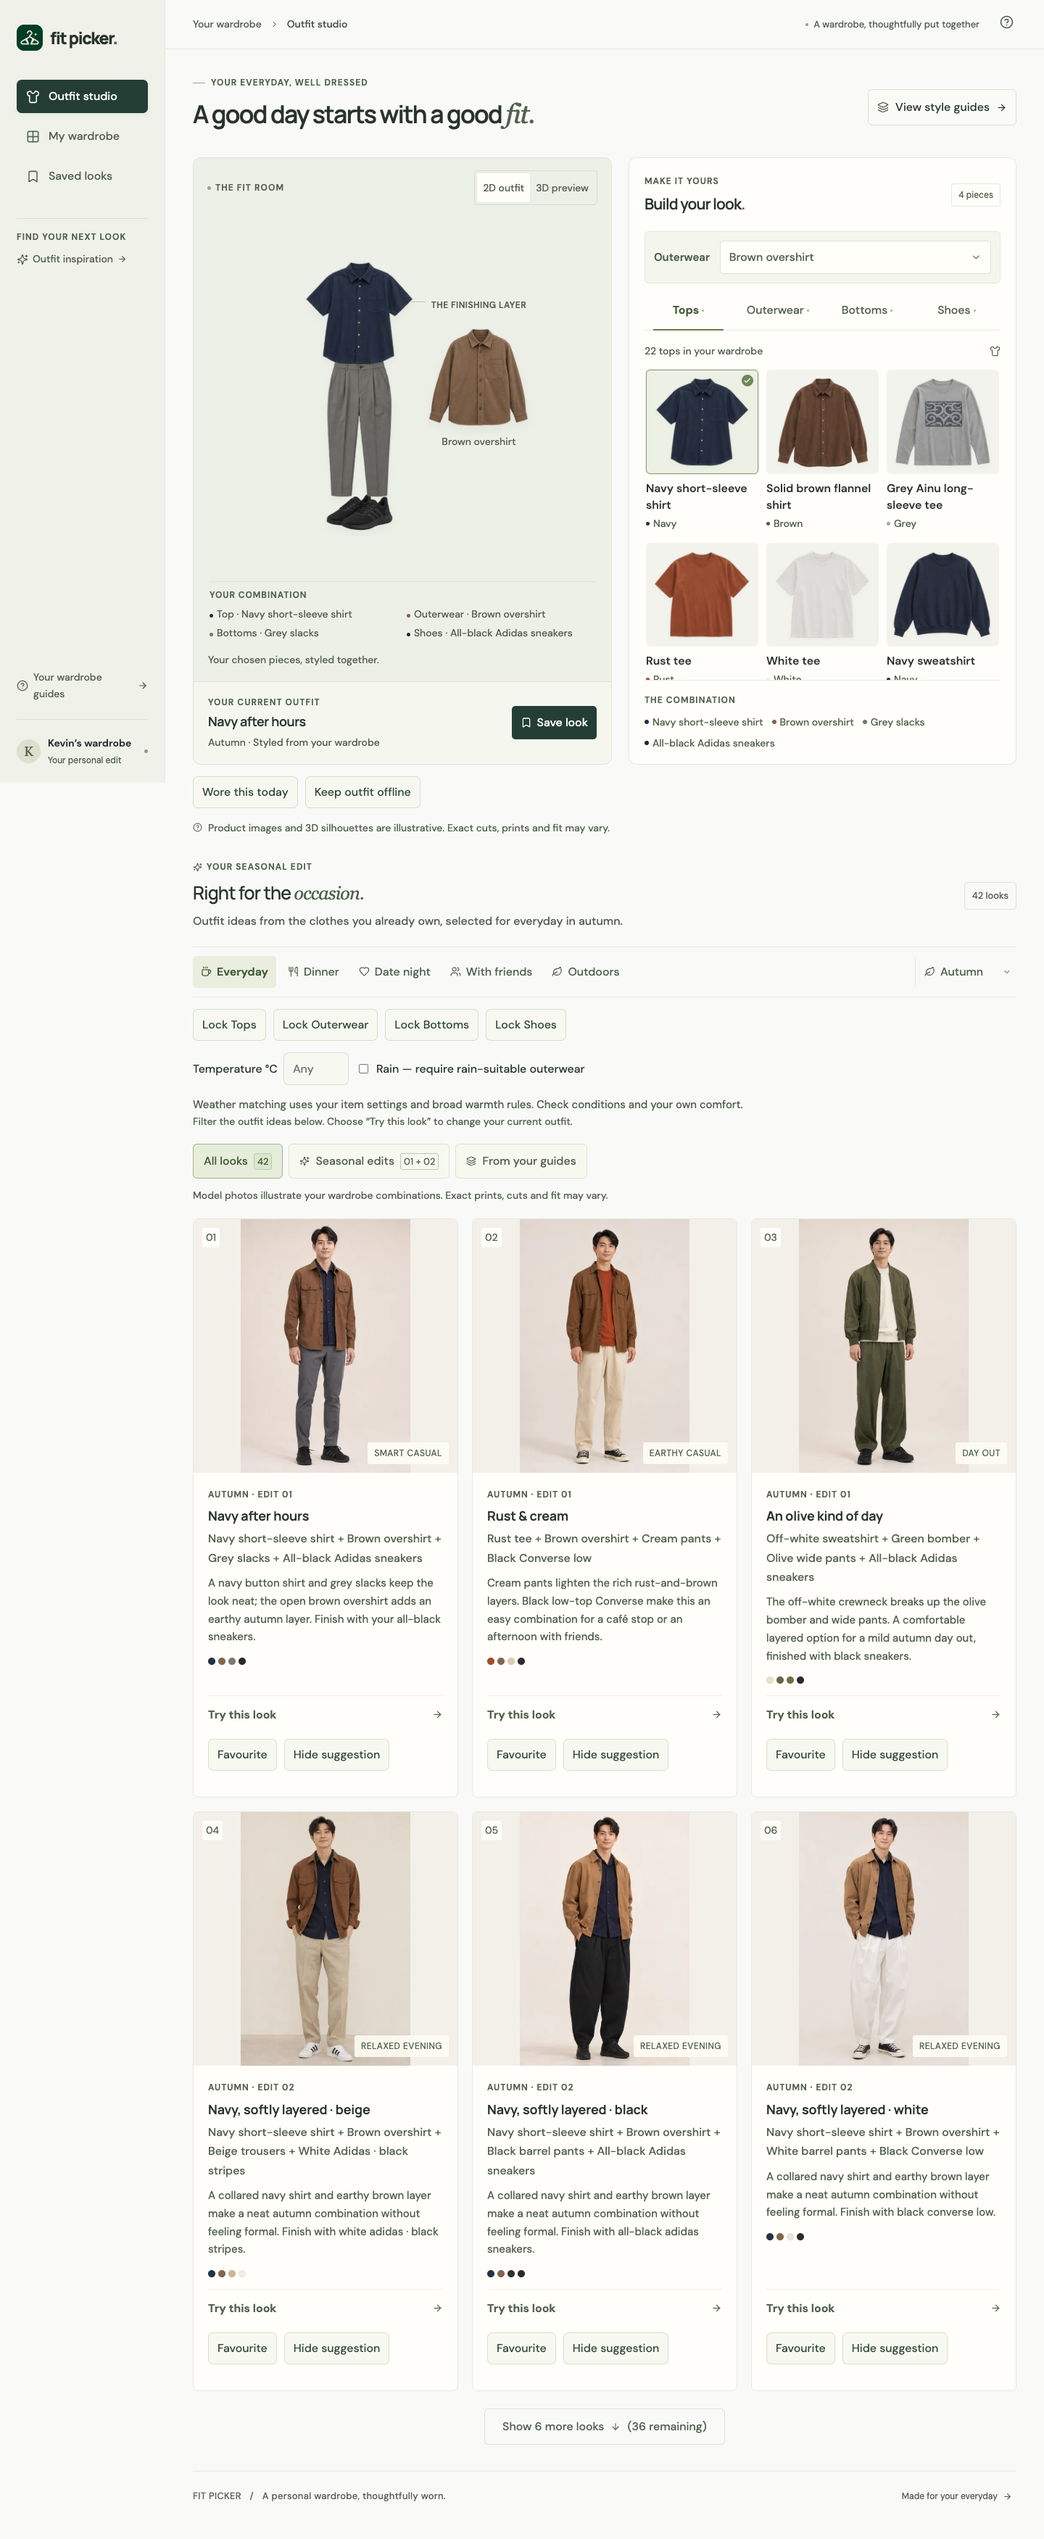
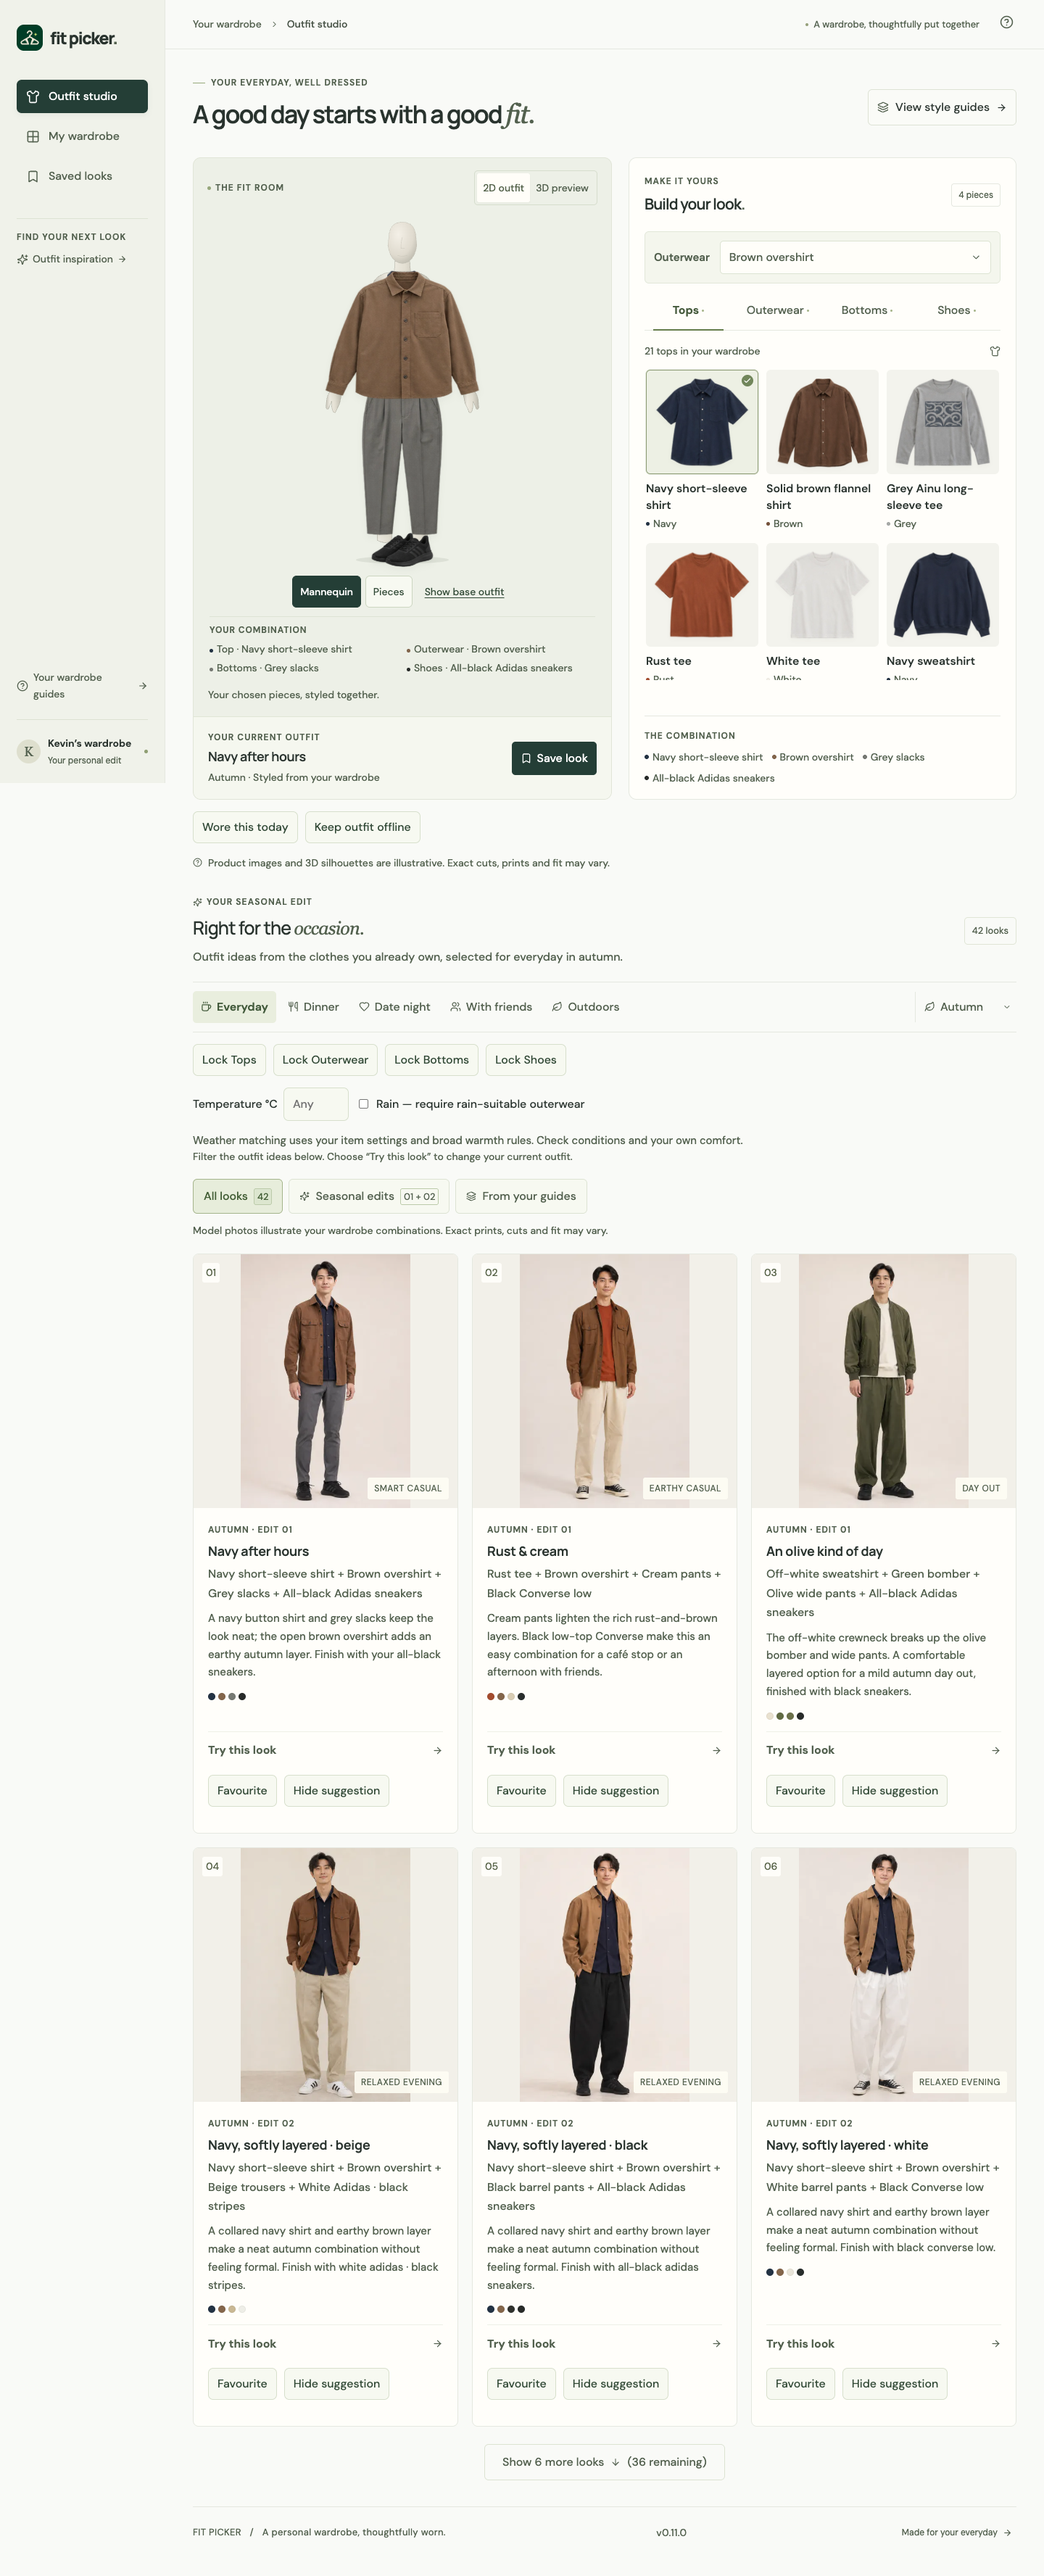
Add a lightweight 2D mannequin for selected outfits

diff --git a/src/components/OutfitCanvas.tsx b/src/components/OutfitCanvas.tsx
@@ -1,8 +1,9 @@
-import { useEffect, useRef } from 'react'
+import { useEffect, useRef, useState } from 'react'
 import type { Category, Garment, Selection } from '../types'
 import './outfit-canvas.css'
 import { garmentPhoto } from '../lib/garment-photos'
 import { useImageFailure } from '../lib/use-image-failure'
+import Mannequin2D from './Mannequin2D'
 
 interface Props {
   selection: Selection
@@ -35,9 +36,8 @@ function ProductPhoto({ garment, className = '', lazy = false, side = 'front' }:
       />
 }
 
-/** A composed clothing-only outfit, using the same photographic product assets
- * as the wardrobe. The optional outer layer sits beside the base outfit so a
- * closed jacket never conceals the selected shirt. */
+/** The studio wears photographic pieces on a light vector display form.
+ * Compact recommendation fallbacks retain the clothing-only composition. */
 export default function OutfitCanvas({ selection, garments, compact = false, side = 'front' }: Props) {
   const arrangement = useRef<HTMLDivElement>(null)
   const assembly = useRef<HTMLDivElement>(null)
@@ -46,6 +46,14 @@ export default function OutfitCanvas({ selection, garments, compact = false, sid
   const layer = get('layers')
   const bottoms = get('bottoms')
   const shoes = get('shoes')
+  const [presentation, setPresentation] = useState<'mannequin' | 'pieces'>('mannequin')
+  const [hiddenLayer, setHiddenLayer] = useState<string>()
+  useEffect(() => { setHiddenLayer(undefined) }, [layer?.id])
+  const mannequin = !compact && presentation === 'mannequin'
+  // Only the selected top has a supplied back photograph. Show it uncovered.
+  const wornLayer = mannequin && side === 'front' && layer?.id !== hiddenLayer ? layer : undefined
+  const visibleTop = wornLayer || top
+  const longSleeves = Boolean(visibleTop && (visibleTop.style !== 'tee' && !['navy-shirt','teal-shirt','brown-shirt','white-shirt'].includes(visibleTop.id)))
   const selected = (['tops', 'layers', 'bottoms', 'shoes'] as Category[])
     .map(category => ({ category, garment: get(category) }))
     .filter((piece): piece is { category: Category; garment: Garment } => Boolean(piece.garment))
@@ -55,8 +63,8 @@ export default function OutfitCanvas({ selection, garments, compact = false, sid
     const content = assembly.current
     if (!container || !content) return
     const resize = () => {
-      const width = layer ? 344 : 210
-      const height = bottoms?.style === 'shorts' ? 365 : 390
+      const width = mannequin ? 300 : layer ? 344 : 210
+      const height = mannequin ? 560 : bottoms?.style === 'shorts' ? 365 : 390
       const scale = Math.min(1, Math.max(.15, (container.clientWidth - 12) / width), Math.max(.15, (container.clientHeight - 12) / height))
       content.style.setProperty('--outfit-scale', String(scale))
       content.style.transform = `translate(-50%, -50%) scale(${scale})`
@@ -65,25 +73,33 @@ export default function OutfitCanvas({ selection, garments, compact = false, sid
     observer.observe(container)
     resize()
     return () => observer.disconnect()
-  }, [Boolean(layer), bottoms?.style, compact, selected.length])
+  }, [Boolean(layer), bottoms?.style, compact, selected.length, mannequin])
 
   if (!selected.length) return <div className="outfit-canvas outfit-canvas--empty"><p>Your outfit starts with one piece.</p><span>Choose a top, bottoms and shoes to bring it together.</span></div>
 
-  return <figure className={`outfit-canvas${compact ? ' outfit-canvas--compact' : ''}${layer ? ' outfit-canvas--layered' : ''}${bottoms?.style === 'shorts' ? ' outfit-canvas--shorts' : ''}`} aria-label="Your selected outfit in 2D">
+  return <figure className={`outfit-canvas${compact ? ' outfit-canvas--compact' : ''}${layer ? ' outfit-canvas--layered' : ''}${bottoms?.style === 'shorts' ? ' outfit-canvas--shorts' : ''}${mannequin ? ' outfit-canvas--mannequin' : ''}${wornLayer ? ' outfit-canvas--wearing-layer' : ''}`} data-top-style={top?.style} data-top-id={top?.id} aria-label={mannequin ? 'Your selected outfit on a 2D mannequin' : 'Your selected outfit in 2D'}>
     <div className="outfit-canvas__arrangement" ref={arrangement}>
       <div className="outfit-canvas__assembly" ref={assembly}>
         <div className="outfit-canvas__base">
+          {mannequin && <Mannequin2D back={side === 'back'} longSleeves={longSleeves} coat={wornLayer?.style === 'coat'} bareFeet={!shoes} dressed={Boolean(visibleTop)}/>}
           {shoes && <ProductPhoto key={shoes.id} garment={shoes} lazy={compact} className="outfit-canvas__shoes"/>}
           {bottoms && <ProductPhoto key={bottoms.id} garment={bottoms} lazy={compact} className="outfit-canvas__bottoms"/>}
           {top && <ProductPhoto key={top.id} garment={top} side={side} lazy={compact} className="outfit-canvas__top"/>}
+          {wornLayer && <div className={`outfit-canvas__worn-layer outfit-canvas__worn-layer--${wornLayer.style}`}><ProductPhoto garment={wornLayer}/></div>}
         </div>
-        {layer && <div className="outfit-canvas__layer">
+        {layer && !mannequin && <div className="outfit-canvas__layer">
           <span className="outfit-canvas__layer-label">The finishing layer</span>
           <ProductPhoto key={layer.id} garment={layer} lazy={compact}/>
           <span className="outfit-canvas__layer-name">{layer.name}</span>
         </div>}
       </div>
     </div>
+    {!compact && <div className="outfit-canvas__view-tools" role="group" aria-label="2D presentation">
+      <button aria-pressed={mannequin} onClick={() => setPresentation('mannequin')}>Mannequin</button>
+      <button aria-pressed={!mannequin} onClick={() => setPresentation('pieces')}>Pieces</button>
+      {mannequin && layer && side === 'front' && <button className="outfit-canvas__layer-switch" onClick={() => setHiddenLayer(wornLayer ? layer.id : undefined)}>{wornLayer ? 'Show base outfit' : 'Show outerwear'}</button>}
+      {mannequin && layer && side === 'back' && <span>Top’s back · outerwear hidden</span>}
+    </div>}
     <figcaption className="outfit-canvas__caption">
       <span className="outfit-canvas__caption-title">Your combination</span>
       <ul aria-label="Selected clothes">

diff --git a/src/components/Mannequin2D.tsx b/src/components/Mannequin2D.tsx
@@ -1,0 +1,37 @@
+import { useId } from 'react'
+
+/** A small vector display form. Clothing stays photographic; no WebGL is used. */
+export default function Mannequin2D({ back, longSleeves, coat, bareFeet, dressed }: { back: boolean; longSleeves: boolean; coat: boolean; bareFeet: boolean; dressed: boolean }) {
+  const id = useId().replace(/:/g, '')
+  const surface = `${id}-surface`, head = `${id}-head`
+  return <svg className="outfit-mannequin" viewBox="0 0 300 560" aria-hidden="true" focusable="false">
+    <defs>
+      <linearGradient id={surface} x1="0" x2="1"><stop stopColor="#c6c3b7"/><stop offset=".25" stopColor="#edeae0"/><stop offset=".58" stopColor="#e3dfd2"/><stop offset="1" stopColor="#bcb9ad"/></linearGradient>
+      <radialGradient id={head} cx=".36" cy=".3" r=".8"><stop stopColor="#f4f0e7"/><stop offset=".65" stopColor="#dfdace"/><stop offset="1" stopColor="#b9b7ab"/></radialGradient>
+      <clipPath id={`${id}-clothed`}><rect x="0" y="125" width="300" height="435"/></clipPath>
+    </defs>
+    <ellipse cx="150" cy="551" rx="74" ry="6" fill="#34422a" opacity=".09"/>
+    <g fill={`url(#${surface})`} stroke="#aaa99d" strokeWidth=".6">
+      <path d="M139 66 Q150 73 161 66 L163 91 178 98 122 98 137 91Z"/>
+      <path clipPath={dressed ? `url(#${id}-clothed)` : undefined} d="M121 94 Q150 87 179 94 Q198 101 199 119 L185 187 Q181 220 190 255 Q199 280 190 308 L162 322 150 303 138 322 110 308 Q101 280 110 255 Q119 220 115 187 L101 119 Q102 101 121 94Z"/>
+      <path d="M111 276 Q133 266 148 288 L142 382 136 446 133 518 Q126 528 110 520 L108 446 104 390 Q95 313 111 276Z"/>
+      <path d="M189 276 Q167 266 152 288 L158 382 164 446 167 518 Q174 528 190 520 L192 446 196 390 Q205 313 189 276Z"/>
+      {bareFeet && <><path d="M110 513 Q121 509 133 516 L135 535 Q130 547 102 545 Q95 538 101 529Z"/>
+      <path d="M190 513 Q179 509 167 516 L165 535 Q170 547 198 545 Q205 538 199 529Z"/></>}
+      {longSleeves ? <g clipPath={dressed ? `url(#${id}-clothed)` : undefined} transform={coat ? 'translate(0 24)' : undefined}>
+        <path d="M108 119 Q96 111 85 132 L66 183 38 267 Q32 282 40 290 Q48 296 54 280 L86 198 119 141Z"/>
+        <path d="M192 119 Q204 111 215 132 L234 183 262 267 Q268 282 260 290 Q252 296 246 280 L214 198 181 141Z"/>
+        <path d="M39 278 Q31 284 29 295 L28 308 Q31 315 34 305 L37 298 Q37 318 43 316 L50 301 53 286Z"/>
+        <path d="M261 278 Q269 284 271 295 L272 308 Q269 315 266 305 L263 298 Q263 318 257 316 L250 301 247 286Z"/>
+      </g> : <g clipPath={dressed ? `url(#${id}-clothed)` : undefined}>
+        <path d="M108 119 Q96 111 83 135 L62 175 Q55 191 52 217 L47 266 Q49 276 60 272 L71 222 83 194 119 141Z"/>
+        <path d="M192 119 Q204 111 217 135 L238 175 Q245 191 248 217 L253 266 Q251 276 240 272 L229 222 217 194 181 141Z"/>
+        <path d="M48 261 Q40 270 39 284 L40 298 Q44 302 45 289 L48 282 Q47 307 53 304 L62 286 61 265Z"/>
+        <path d="M252 261 Q260 270 261 284 L260 298 Q256 302 255 289 L252 282 Q253 307 247 304 L238 286 239 265Z"/>
+      </g>}
+    </g>
+    <path d="M129 30 Q132 12 150 12 Q168 12 171 30 L173 49 Q171 67 160 75 Q150 81 140 75 Q129 67 127 49Z" fill={`url(#${head})`} stroke="#c4c1b6" strokeWidth=".6"/>
+    {!back && <path d="M150 36 Q147 47 148 54 L154 54 M142 65 Q150 68 158 65" fill="none" stroke="#c1bdb1" strokeWidth=".9" opacity=".5"/>}
+    <path d="M125 101 Q150 112 175 101" fill="none" stroke="#bbb8ad" opacity=".35"/>
+  </svg>
+}

diff --git a/src/components/outfit-canvas.css b/src/components/outfit-canvas.css
@@ -242,3 +242,41 @@
   .outfit-canvas__caption-title { font-size:12px; }
 }
 .outfit-canvas--compact{padding:8px}.outfit-canvas--compact .outfit-canvas__arrangement{min-height:0}.outfit-canvas--compact .outfit-canvas__caption{display:none}.outfit-canvas--compact .outfit-canvas__layer-label,.outfit-canvas--compact .outfit-canvas__layer-name{display:none}
+
+/* Studio display form: a fixed anatomical coordinate system keeps the head,
+   waist and feet aligned as individual photographic garments are swapped. */
+.outfit-canvas--mannequin .outfit-canvas__assembly { width: 300px; height: 560px; }
+.outfit-canvas--mannequin .outfit-canvas__base { inset: 0; width: 300px; }
+.outfit-mannequin { position: absolute; inset: 0; width: 300px; height: 560px; }
+.outfit-canvas--mannequin .outfit-canvas__base > .outfit-canvas__top {
+  width: 240px; height: 210px; left: 30px; top: 80px; object-fit: fill;
+}
+.outfit-canvas--mannequin:is([data-top-style='longsleeve'],[data-top-style='sweatshirt'],[data-top-style='overshirt']) .outfit-canvas__base > .outfit-canvas__top,
+.outfit-canvas--mannequin[data-top-id='brown-flannel'] .outfit-canvas__base > .outfit-canvas__top {
+  width: 270px; height: 220px; left: 15px;
+}
+.outfit-canvas--mannequin[data-top-style='hoodie'] .outfit-canvas__base > .outfit-canvas__top {
+  width: 270px; height: 235px; left: 15px; top: 67px;
+}
+.outfit-canvas--mannequin .outfit-canvas__base > .outfit-canvas__bottoms {
+  width: 156px; height: 268px; left: 72px; top: 253px; object-fit: fill;
+}
+.outfit-canvas--mannequin.outfit-canvas--shorts .outfit-canvas__base > .outfit-canvas__bottoms {
+  width: 165px; height: 136px; left: 67.5px; top: 253px;
+}
+.outfit-canvas--mannequin .outfit-canvas__base > .outfit-canvas__shoes {
+  width: 125px; height: 64px; left: 87.5px; top: 503px; z-index: 5;
+}
+.outfit-canvas__worn-layer { position: absolute; left: 15px; top: 80px; width: 270px; height: 225px; z-index: 4; }
+.outfit-canvas__worn-layer > .outfit-canvas__photo { object-fit: fill; }
+.outfit-canvas__worn-layer--coat { left: 20px; width: 260px; height: 340px; }
+.outfit-canvas__worn-layer--puffer { left: 8px; width: 284px; height: 240px; }
+.outfit-canvas__worn-layer--raincoat { top: 66px; height: 245px; }
+.outfit-canvas__view-tools { display: flex; flex-wrap: wrap; align-items: center; justify-content: center; gap: 6px; padding: 8px 0 12px; }
+.outfit-canvas__view-tools button { min-height: 44px; border: 1px solid #ccd6c1; border-radius: 6px; padding: 7px 10px; font-size: 14px; color: #304835; background: #f7f9f1; }
+.outfit-canvas__view-tools button[aria-pressed='true'] { background: #243e36; color: white; border-color: #243e36; }
+.outfit-canvas__view-tools button[aria-pressed='true']:hover { color: white; }
+.outfit-canvas__view-tools .outfit-canvas__layer-switch { text-decoration: underline; text-underline-offset: 3px; border-color: transparent; background: transparent; }
+.outfit-canvas__view-tools > span { font-size: 13px; text-align: center; }
+.outfit-canvas--wearing-layer .outfit-canvas__base > .outfit-canvas__top { clip-path: inset(0 40%); }
+.preview-panel .mannequin-area:has(.outfit-canvas--mannequin) { min-height: 660px; height: 660px; max-height: none; }

diff --git a/README.md b/README.md
@@ -7,7 +7,7 @@ A personal wardrobe studio for Kevin. Assemble outfits with realistic photograph
 ## Prototype
 
 - React, TypeScript and Vite.
-- A composed 2D outfit view is the default: the selected top, bottoms and shoes form an outfit, with the optional outer layer alongside.
+- A lightweight 2D mannequin is the default: photographic tops, bottoms, shoes and outerwear are positioned on a neutral vector display form. Show the base outfit beneath outerwear, or switch to Pieces to inspect individual items. Front/back top photos remain available. Compact recommendation fallbacks keep their clothing-only arrangement. This illustrates proportions, rather than predicting personal sizing or fabric drape.
 - 45 active transparent product-style garment photographs replace the former SVG drawings throughout the wardrobe, picker, outfit overviews and saved looks.
 - The optional Three.js 3D preview loads a fitted human body, hair and separate clothing models through `GLTFLoader`, with clothing swaps, rotation, zoom and reset. Model/WebGL failures return to 2D. A persistent Outerwear selector changes/removes the outer layer from any builder tab. Eighteen garment constructions have offline cloth drape and embedded normal maps: quilted puffer, ribbed bomber, rain shell, knee-length coat, shirts/overshirts, cotton tops and separate trouser cuts.
 - 43 confirmed garment entries, 2 clearly separated suggested sweatshirts, 6 unowned archive records, and 54 original combinations transcribed from three source images.
@@ -153,3 +153,11 @@ Portrait metadata now records the pictured clothing appearance. A later change t
 ## Ownership correction (v0.10.2)
 
 The plain brown crew-neck tee is now excluded from the wardrobe, picker and recommendations, including its original guide outfit (ss-c4). This leaves 43 confirmed pieces and 132 selectable combinations. Older drafts and saved looks retain the other pieces and prompt for a replacement top; older personal edits or backups cannot restore ownership of this tee. Brown collared shirts and outerwear remain separate items.
+
+## 2D mannequin (v0.11.0)
+
+The studio's default 2D view places existing garment photographs on a shaded vector mannequin, including visible hands and bare legs with shorts. Outerwear is worn over the base outfit; “Show base outfit” reveals the selected top without changing the combination. “Pieces” retains the separate garment composition. Back view uncovers the selected top's supplied back photo and labels the hidden outerwear. Coats use a longer silhouette than jackets. This is a proportion illustration, not a fit or drape simulation.
+
+The mannequin adds no model/image download, WebGL context or runtime dependency. It uses the same garment photo cache and preserves offline/image-failure recovery. Recommendation fallback cards keep their compact garment layouts. `scripts/check-2d-mannequin.mjs` verifies controls, selection preservation, long coats, back prints, shorts, viewport fit and deferred 3D assets in Chromium and WebKit at 320/390/792/1440 px. Long-page mockups use tiled Chromium captures to avoid software GPU texture limits.
+
+[Phone mannequin](docs/mockups/2d-mannequin-390.png) · [Tablet mannequin](docs/mockups/2d-mannequin-792.png)
